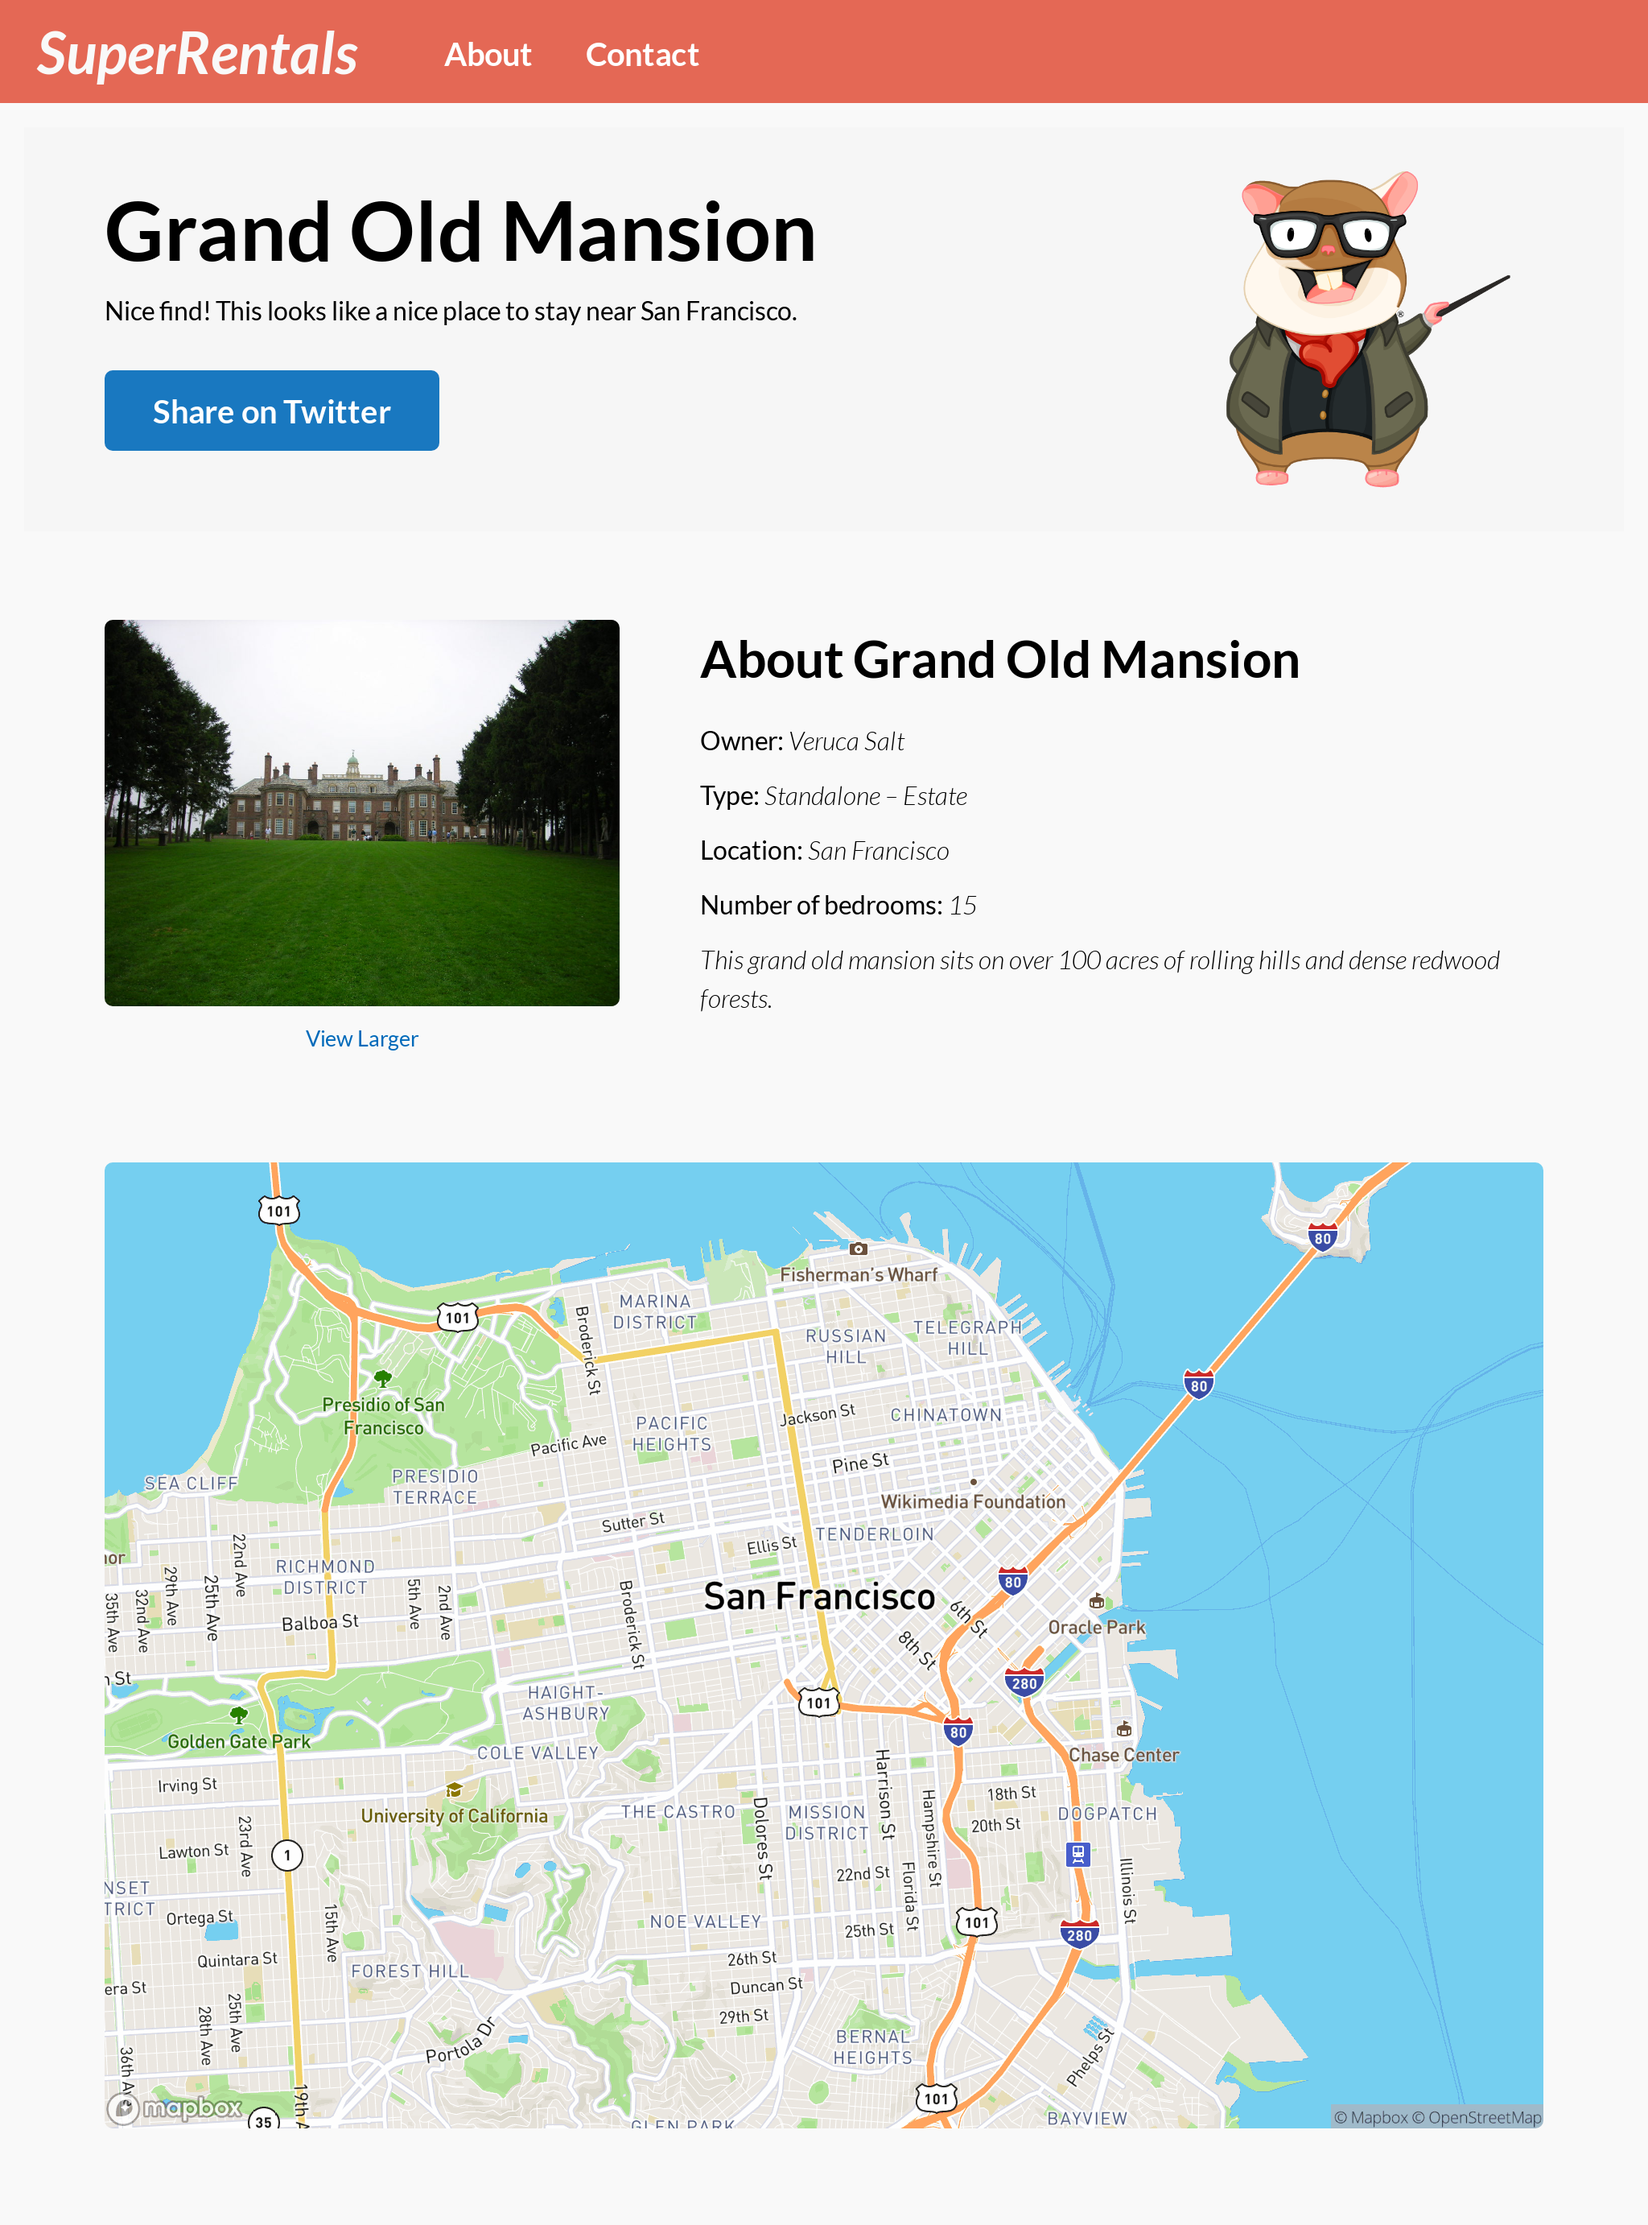
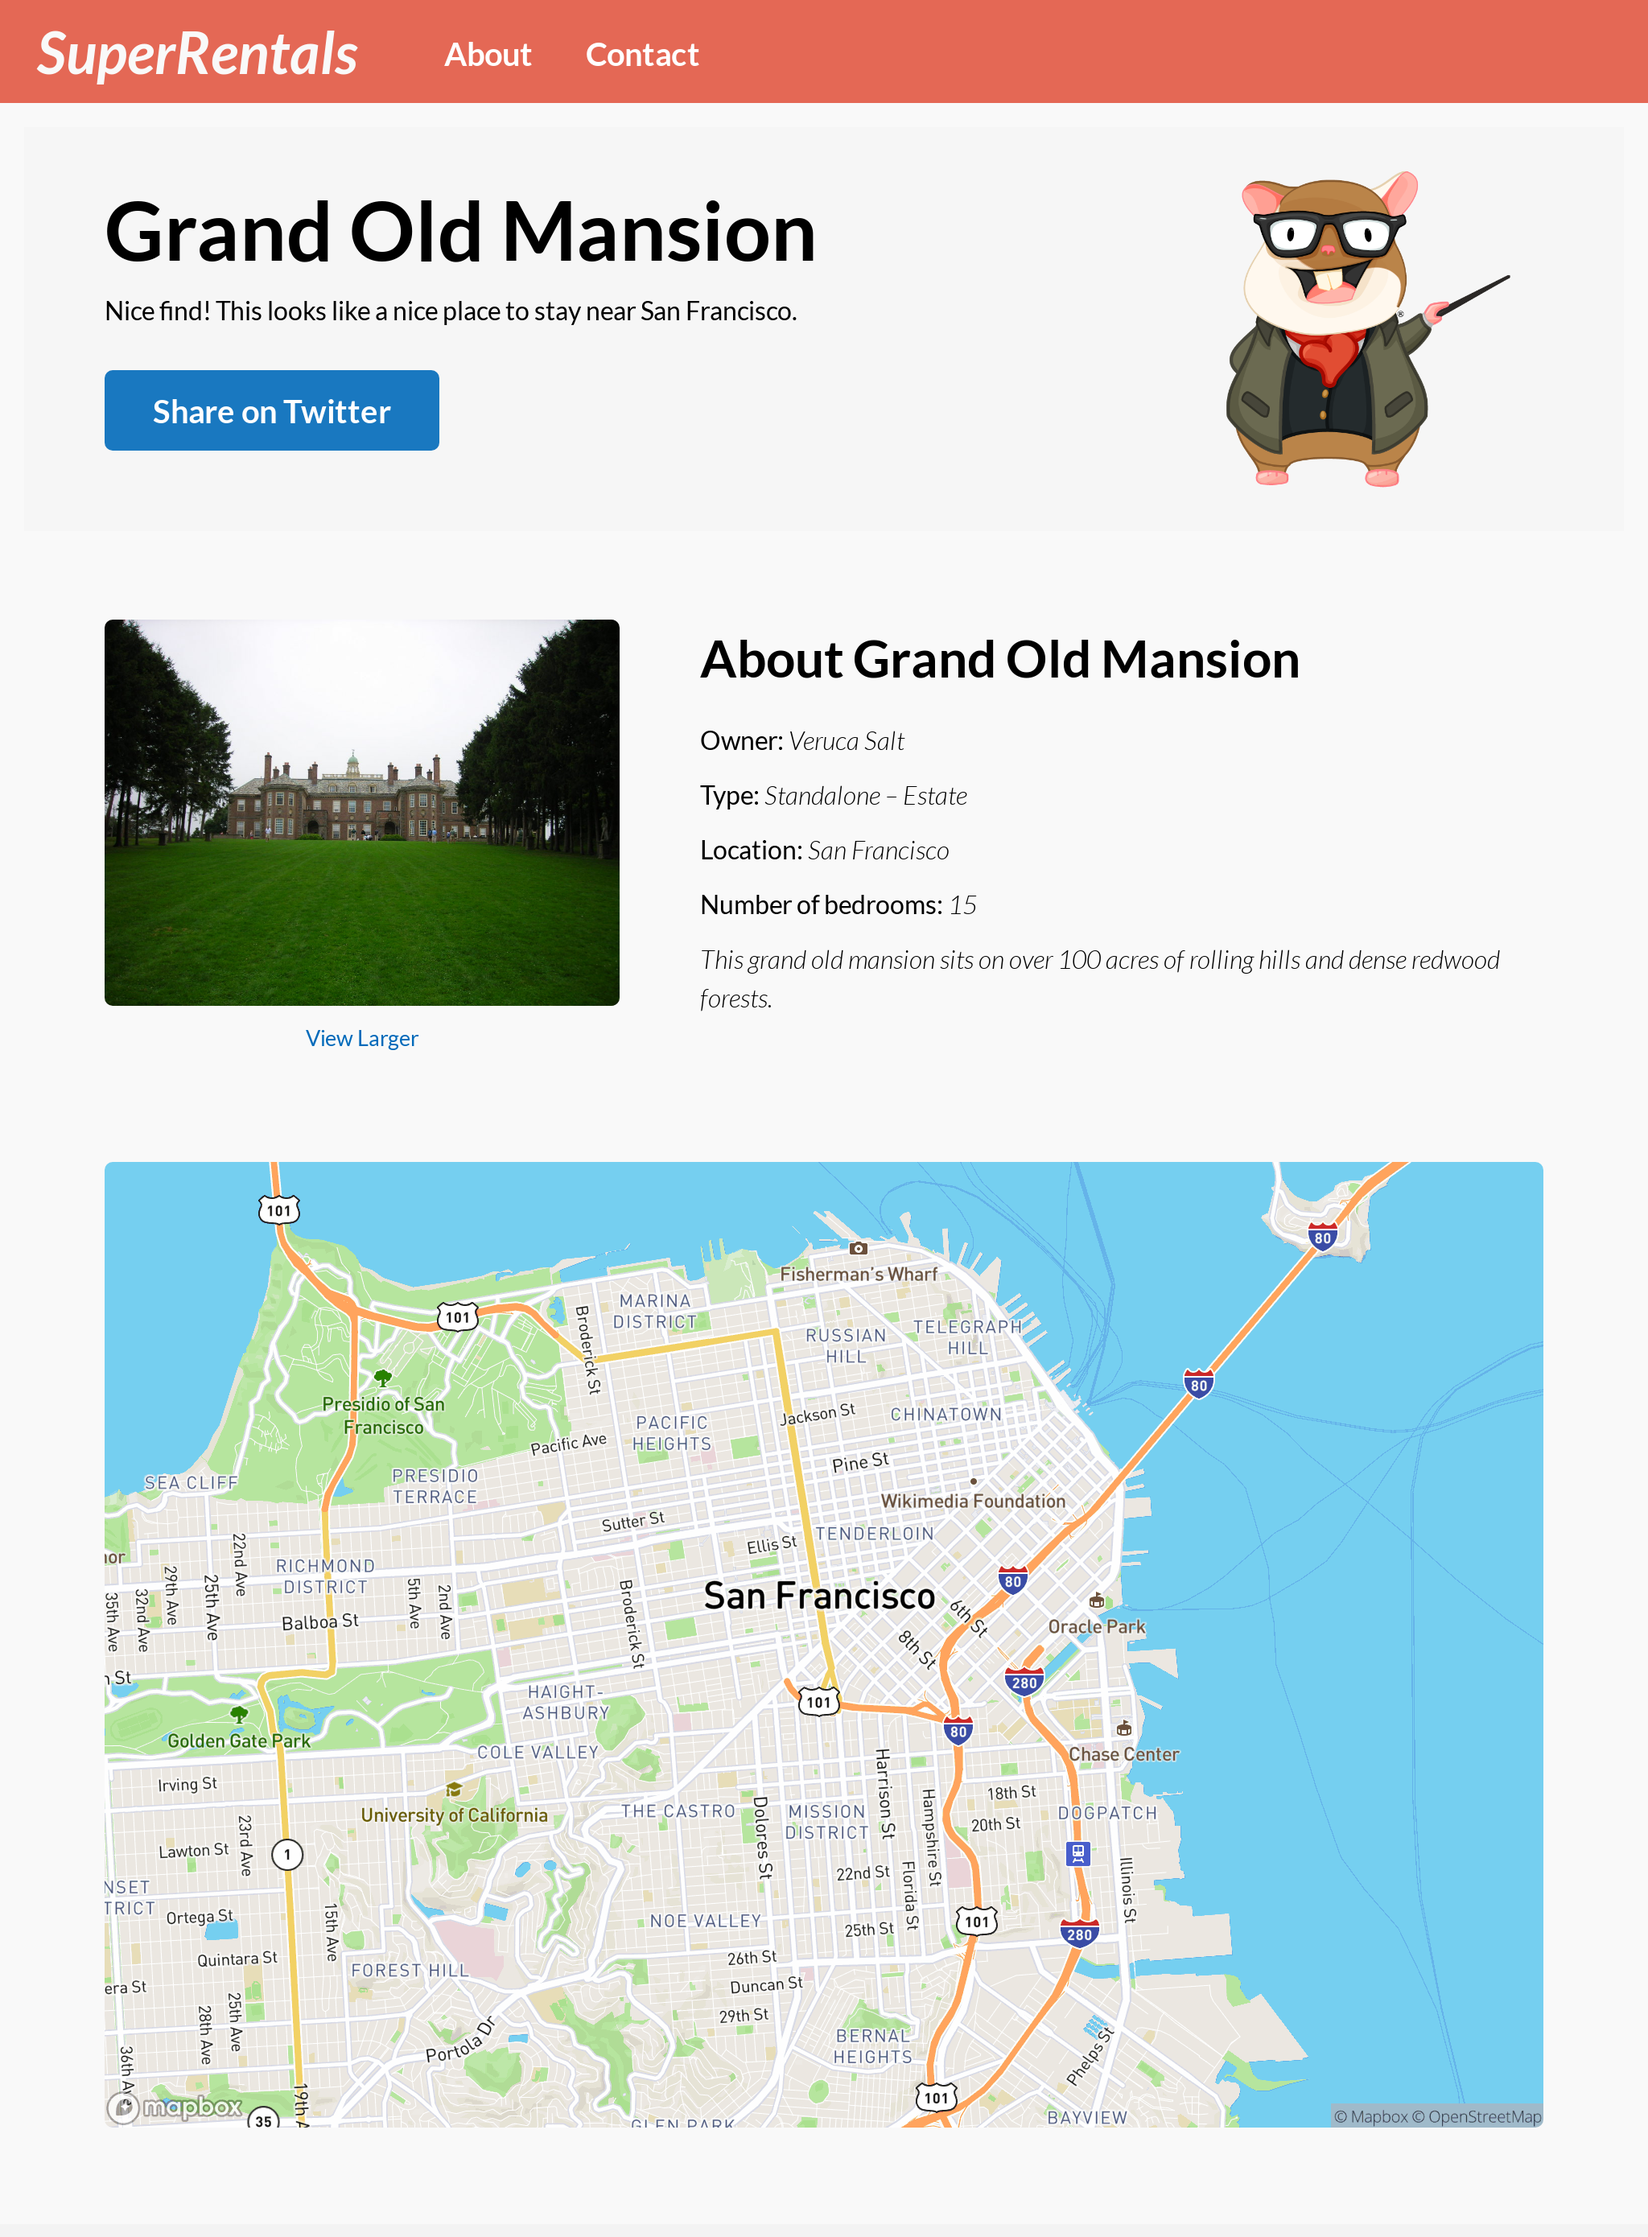
[CRON] Thursday May 18, 2023
---

Commit:  ember-learn/super-rentals-tutorial@448d74a683810513d5c0d06b1ff99f3f48567cdd
Script:  https://github.com/ember-learn/super-rentals-tutorial/blob/448d74a683810513d5c0d06b1ff99f3f48567cdd/.github/workflows/build.yml
Logs:    https://github.com/ember-learn/super-rentals-tutorial/commit/448d74a683810513d5c0d06b1ff99f3f48567cdd/checks

diff --git a/guides/release/tutorial/part-2/route-params.md b/guides/release/tutorial/part-2/route-params.md
@@ -2,7 +2,7 @@
 
 Now that we are fetching real data from our "server", let's add a new feature — dedicated pages for each of our rentals:
 
-<img src="/images/tutorial/part-2/route-params/grand-old-mansion@2x.png" alt="The Super Rentals app (rentals page) by the end of the chapter" width="1024" height="1382">
+<img src="/images/tutorial/part-2/route-params/grand-old-mansion@2x.png" alt="The Super Rentals app (rentals page) by the end of the chapter" width="1024" height="1390">
 
 While adding these rental pages, you will learn about:
 
@@ -474,7 +474,7 @@ module('Acceptance | super rentals', function (hooks) {
 
 Now, when we visit `http://localhost:4200/rentals/grand-old-mansion`, this is what we see:
 
-<img src="/images/tutorial/part-2/route-params/grand-old-mansion@2x.png" alt="A dedicated page for the Grand Old Mansion" width="1024" height="1382">
+<img src="/images/tutorial/part-2/route-params/grand-old-mansion@2x.png" alt="A dedicated page for the Grand Old Mansion" width="1024" height="1390">
 
 And if we run our tests now...
 
